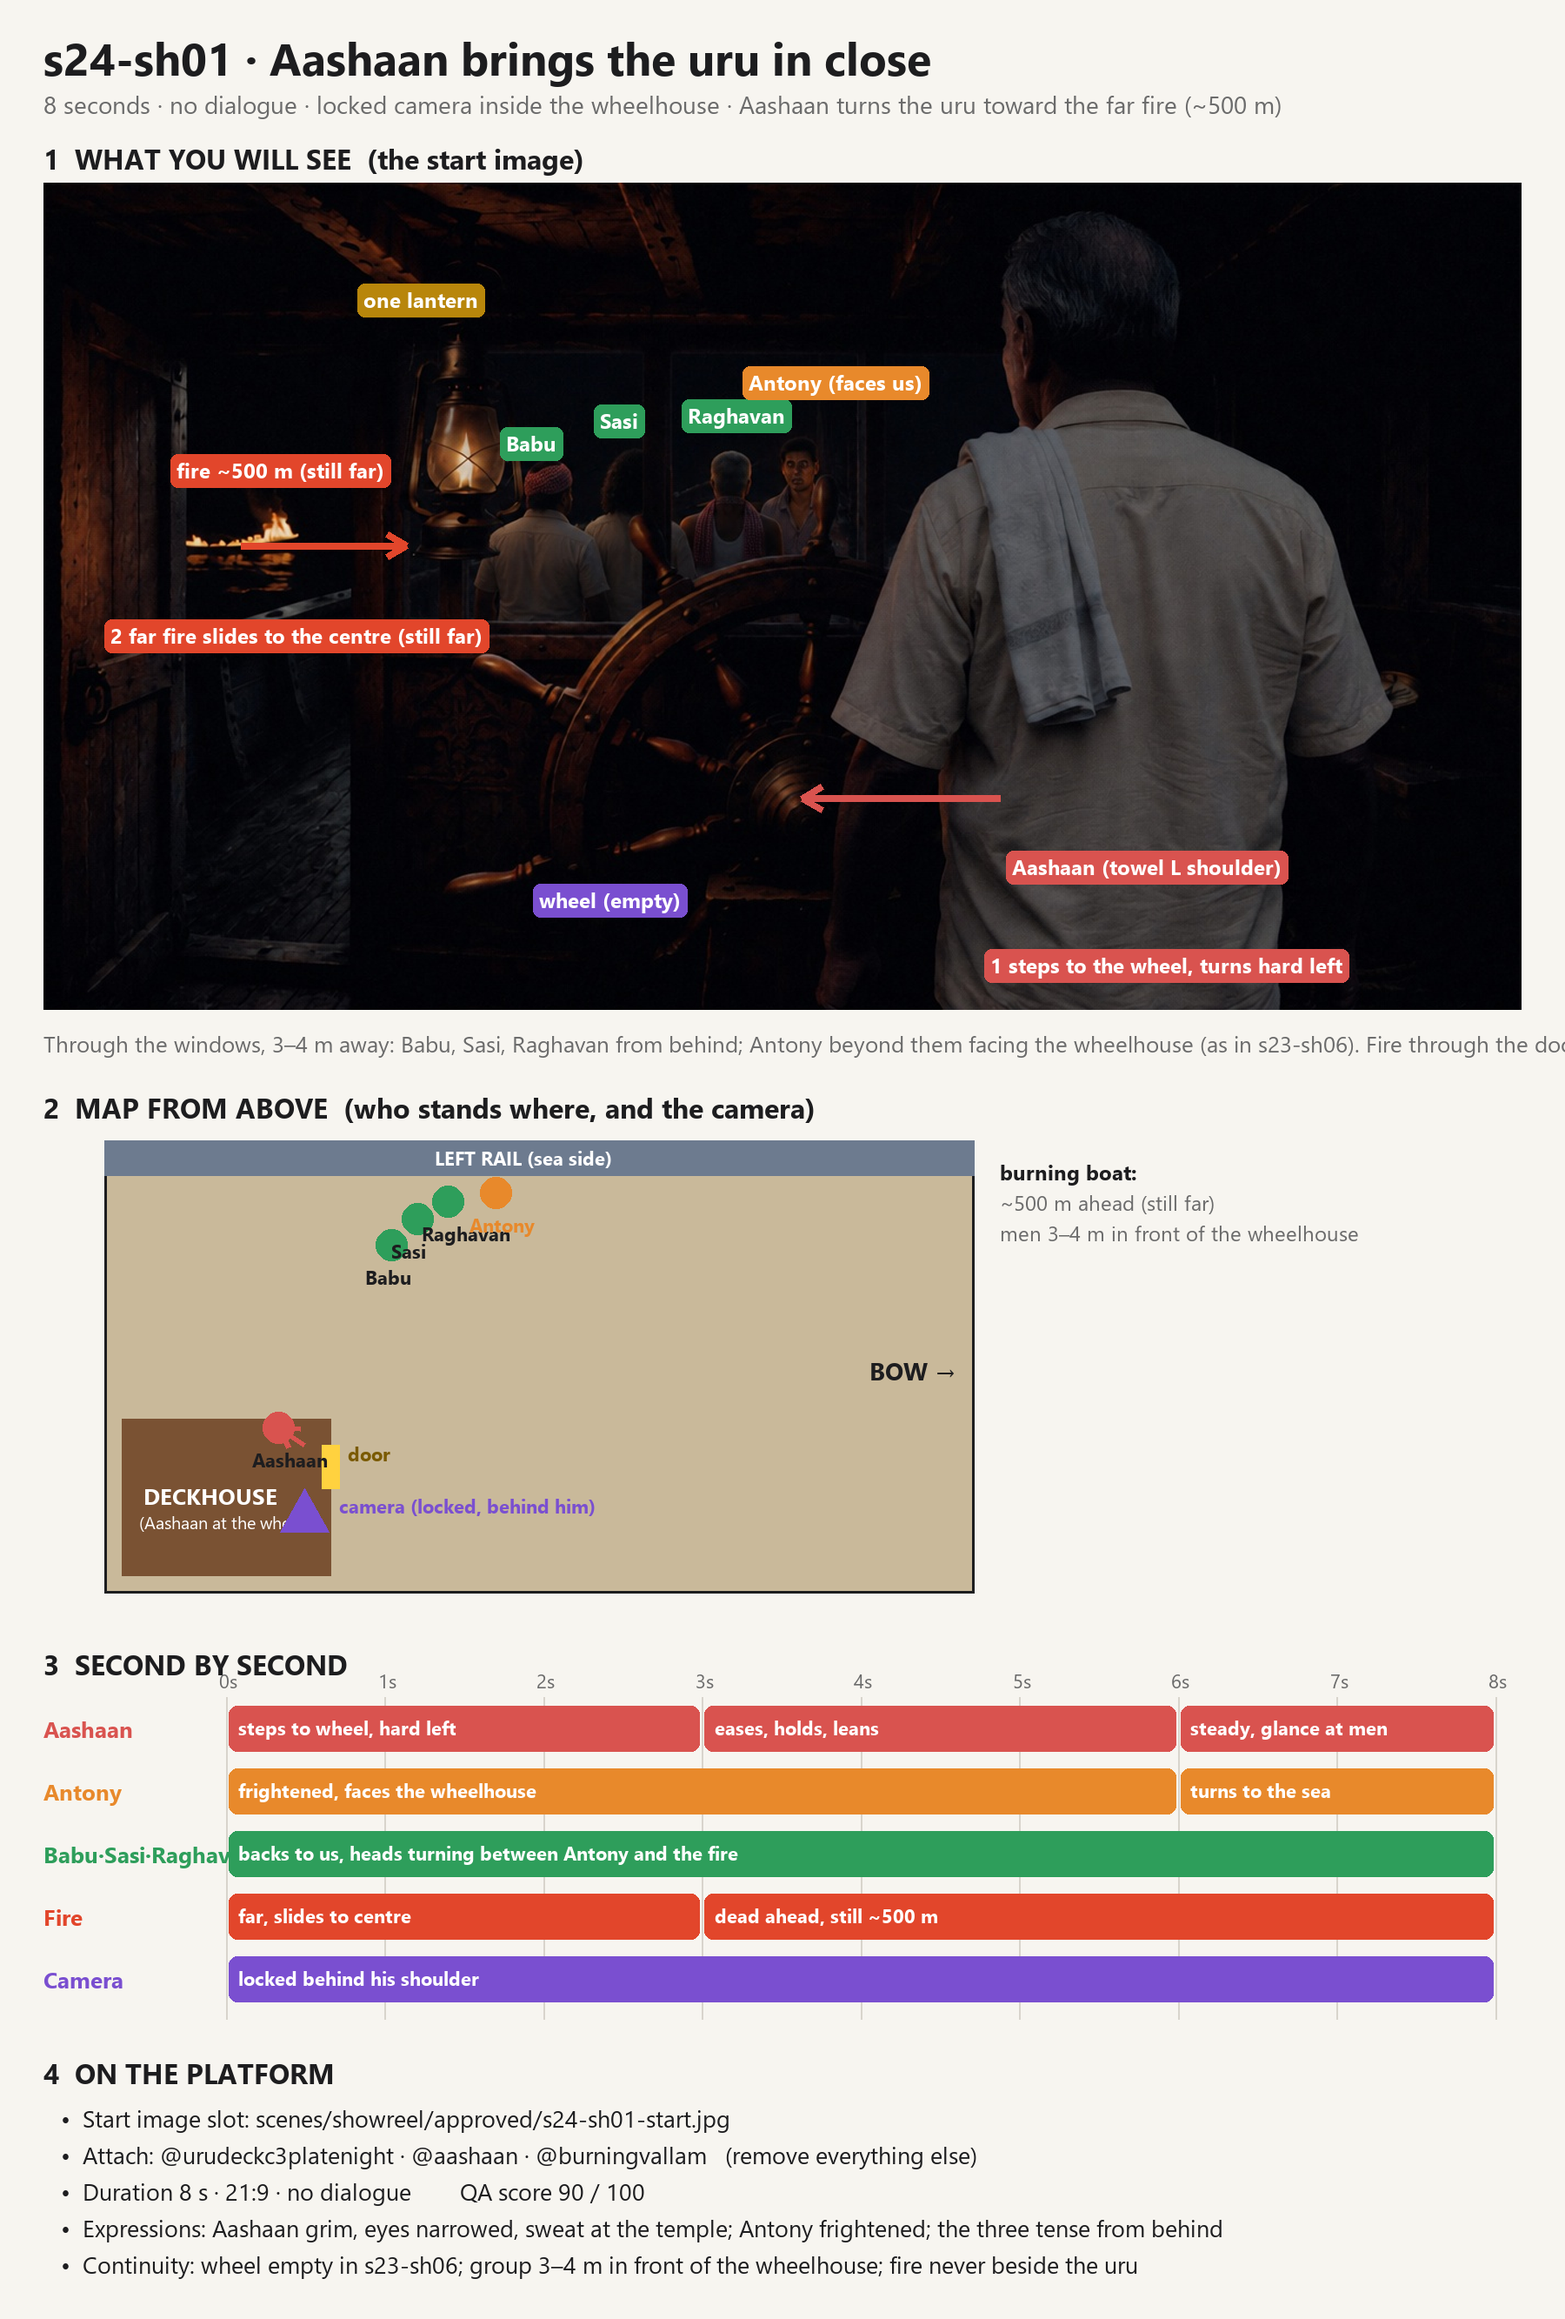
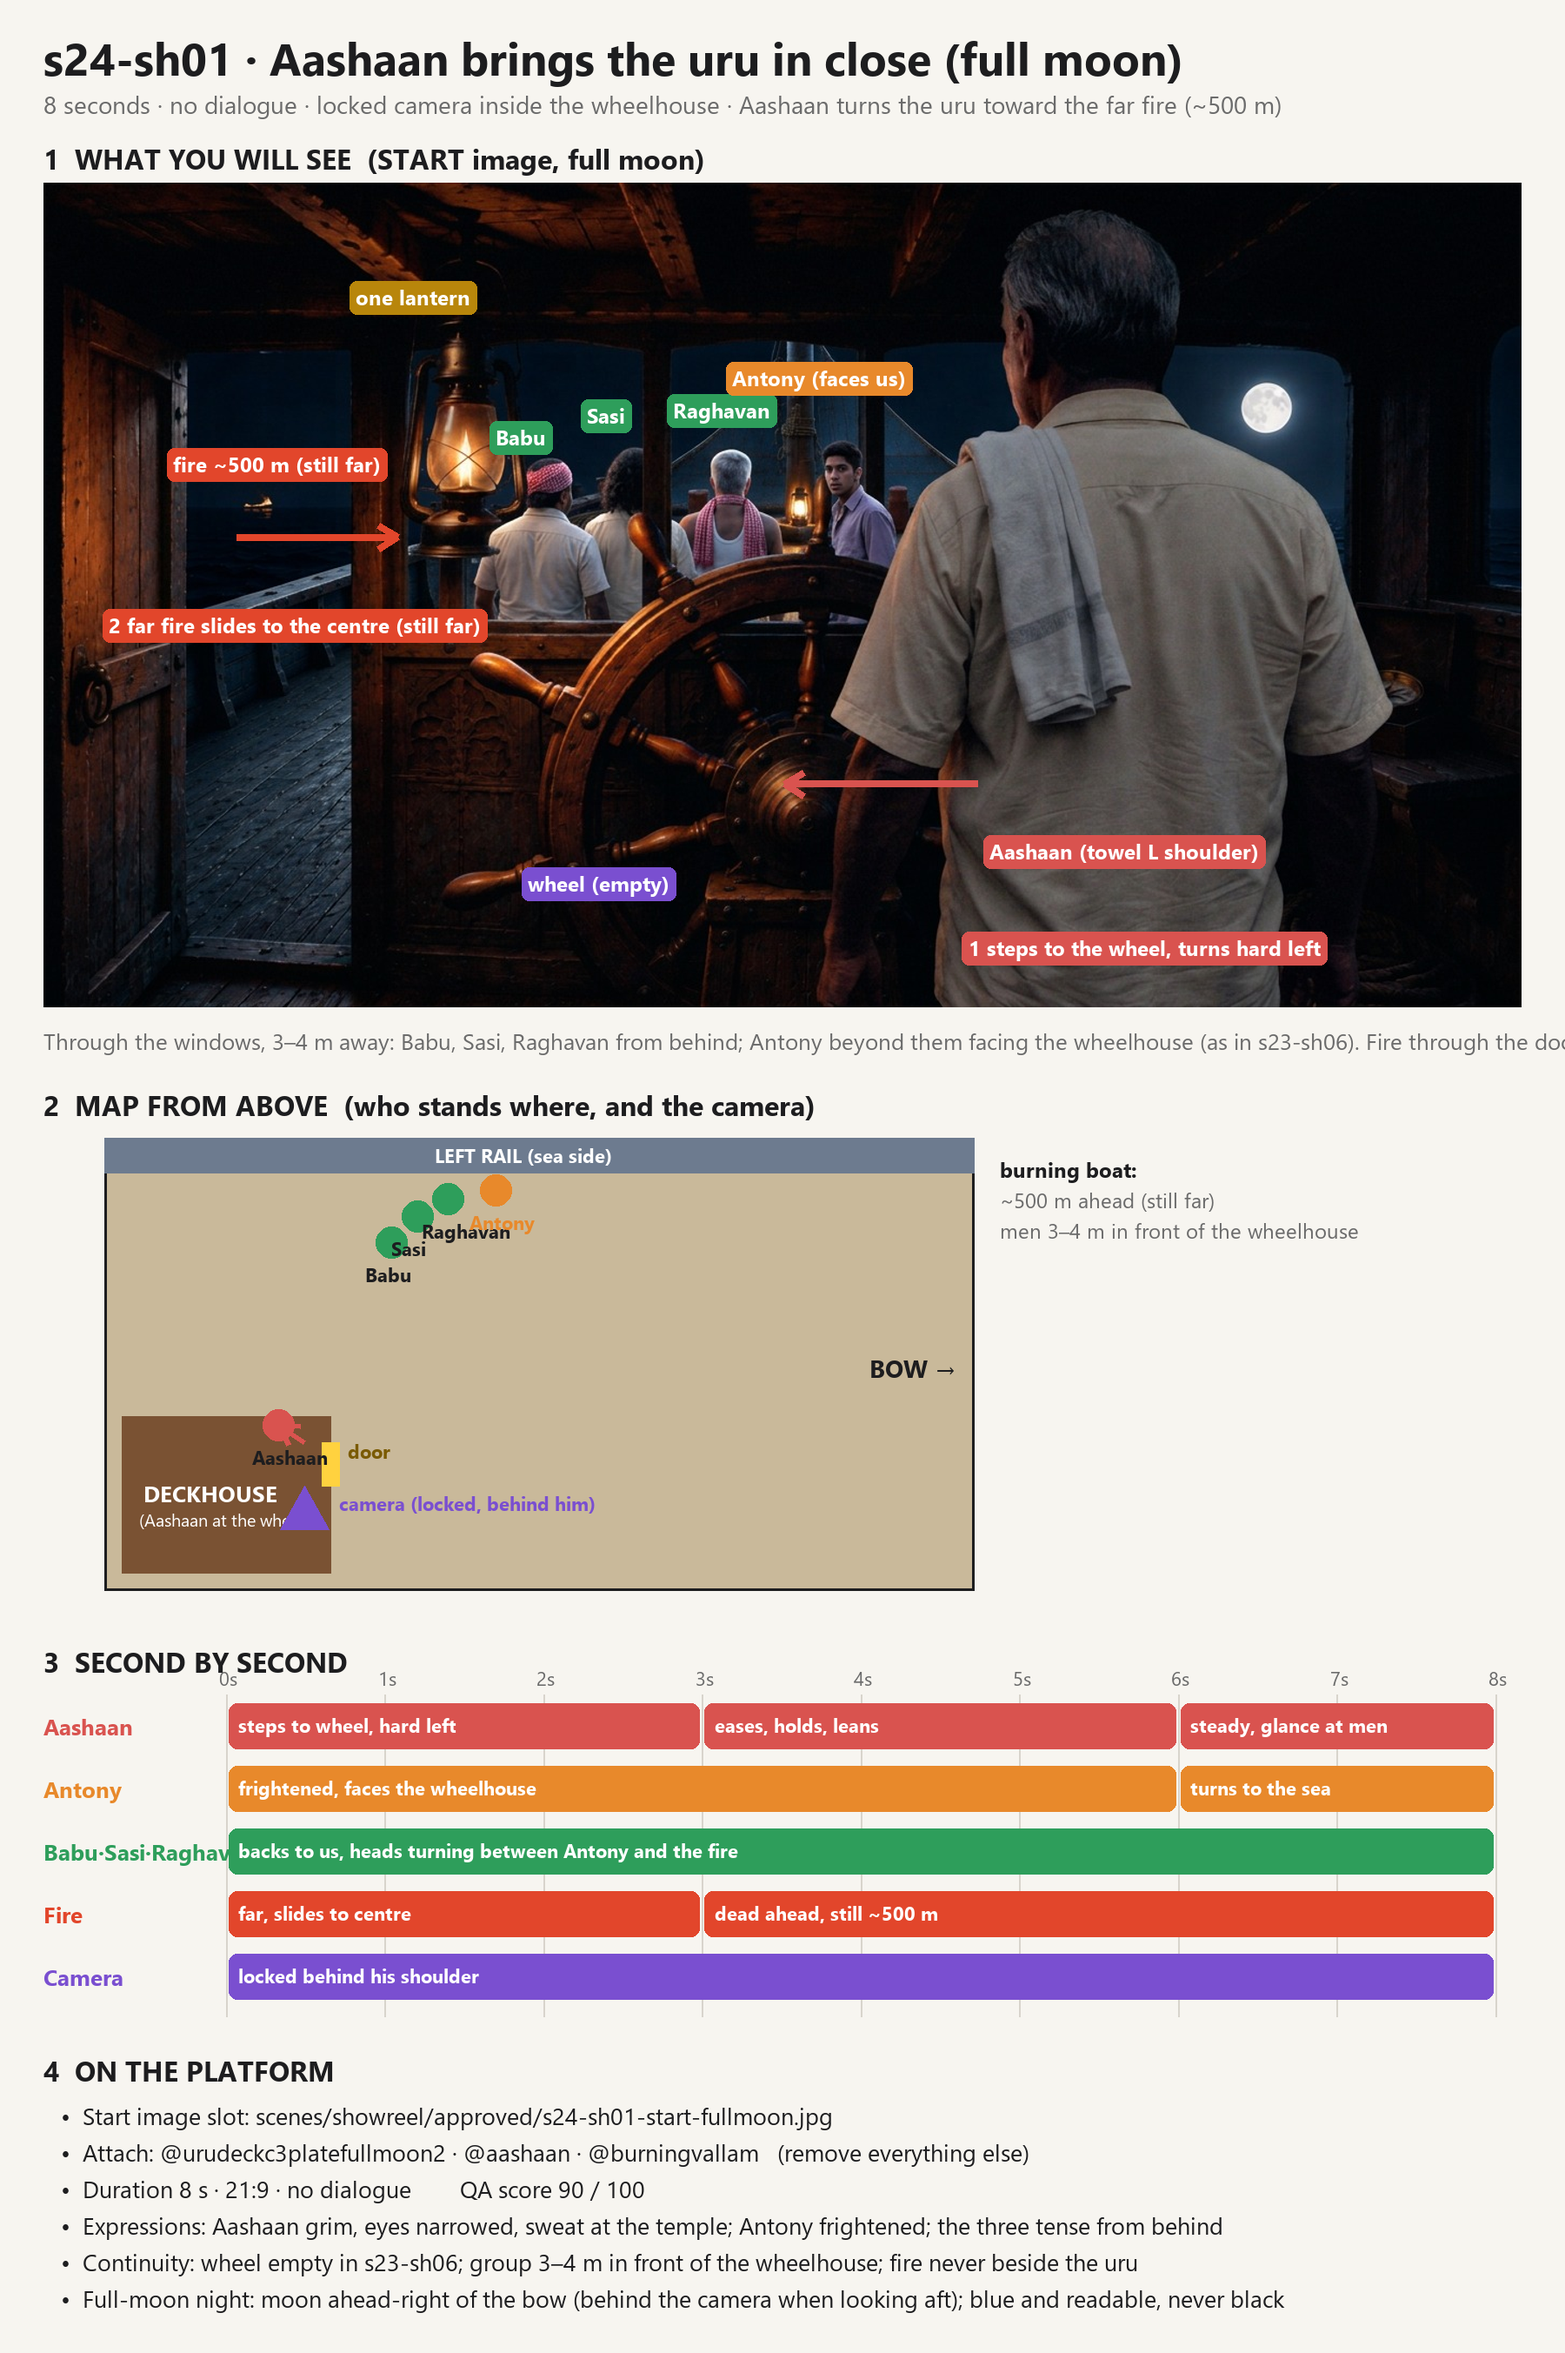
Ranjith: asset: s24-sh01 full-moon start frame (four men, our bow); s24-sh01 v3 points to it

diff --git a/scenes/showreel/s24-sh01.md b/scenes/showreel/s24-sh01.md
@@ -13,7 +13,7 @@ SCENE
 Full-moon night, 1998, on the open sea, inside the deckhouse of the big wooden cargo uru, behind the wheel. One continuous shot. Aashaan, who has been standing at the side of the wheelhouse watching the fire, steps to the wheel and swings the uru toward the burning fishing vallam: through the open door the far fire slides toward the centre as the bow comes round; it is still far away, about half a kilometre, a small orange light on the horizon. Nobody speaks.
 
 ACTIVE REFERENCES
-Start image (0.0s): the exact first frame: s24-sh01-start (Aashaan from behind, standing just right of the wheel, the lantern at the upper left, the door at the left with the burning boat seen through it, and through the front windows the four men on the deck). Keep its real, grainy, dark film look the whole shot.
+Start image (0.0s): the exact first frame: s24-sh01-start-fullmoon (Aashaan from behind, standing just right of the wheel, the lantern at the upper left, the door at the left, the far fire a small orange point on the left horizon, through the front windows the four men on the deck, our blue bow with the lantern at the mast foot, and the full moon high in the right-hand window). Keep its real, grainy film look and its blue full-moon light the whole shot.
 @urudeckc3platefullmoon2 (0.0s–8.0s, full): inside the deckhouse behind the wheel exactly as in the reference: the big spoked wooden wheel, the hurricane lantern hanging from the beam at the upper left, the open door at the left, the front windows looking forward onto the moonlit deck, the mast and our blue bow, the brass compass on the shelf at the right. 100% matches the reference.
 @aashaan (0.0s–8.0s, full): Aashaan, about 60, stocky, grey hair combed back, grey moustache, cream half-sleeve shirt over a white cotton vest, a white towel over his LEFT shoulder, white mundu; seen from behind and a little to his right, his face in partial profile. 100% matches the reference.
 @burningvallam (0.0s–8.0s, background only, through the door): the same burning boat, still far: about half a kilometre off, a small orange fire on the horizon with a thin line of smoke and a faint reflection; nobody on board. 100% matches the reference.
@@ -60,7 +60,7 @@ Sound effects only — natural on-location sound, the soundtrack carries no musi
 0.0s–8.0s: the wooden wheel creaking and knocking as it turns, water rushing along the hull, the lantern creaking on its hook, the far crackle of the fire getting louder.
 
 STYLE
-Photoreal 1998 Kerala film. Shot on a Sony Venice 2 full-frame digital cinema camera: very wide dynamic range that holds the lantern-lit helm and the fire beyond the windows in one frame; clean, low-noise shadows; soft, gradual highlight roll-off; accurate, natural colour with rich, true skin tones; gentle filmic contrast; fine, organic texture; no over-sharpening, no glossy or video look. Cool full-moon night with warm lantern and fire light.
+Photoreal 1998 Kerala film. Shot on a Sony Venice 2 full-frame digital cinema camera: very wide dynamic range; clean, low-noise shadows; soft, gradual highlight roll-off; accurate, natural colour with rich, true skin tones; gentle filmic contrast; fine, organic texture; no over-sharpening, no glossy or video look. Cool full-moon night with warm lantern and fire light.
 
 POSITIVE LOCKS
 Aashaan alone inside, seen from behind and a little to the side, at the wheel; one lantern at the upper left; the fire stays far, about half a kilometre, a small orange light, never near. Nobody speaks. Runs the full 8 seconds.
